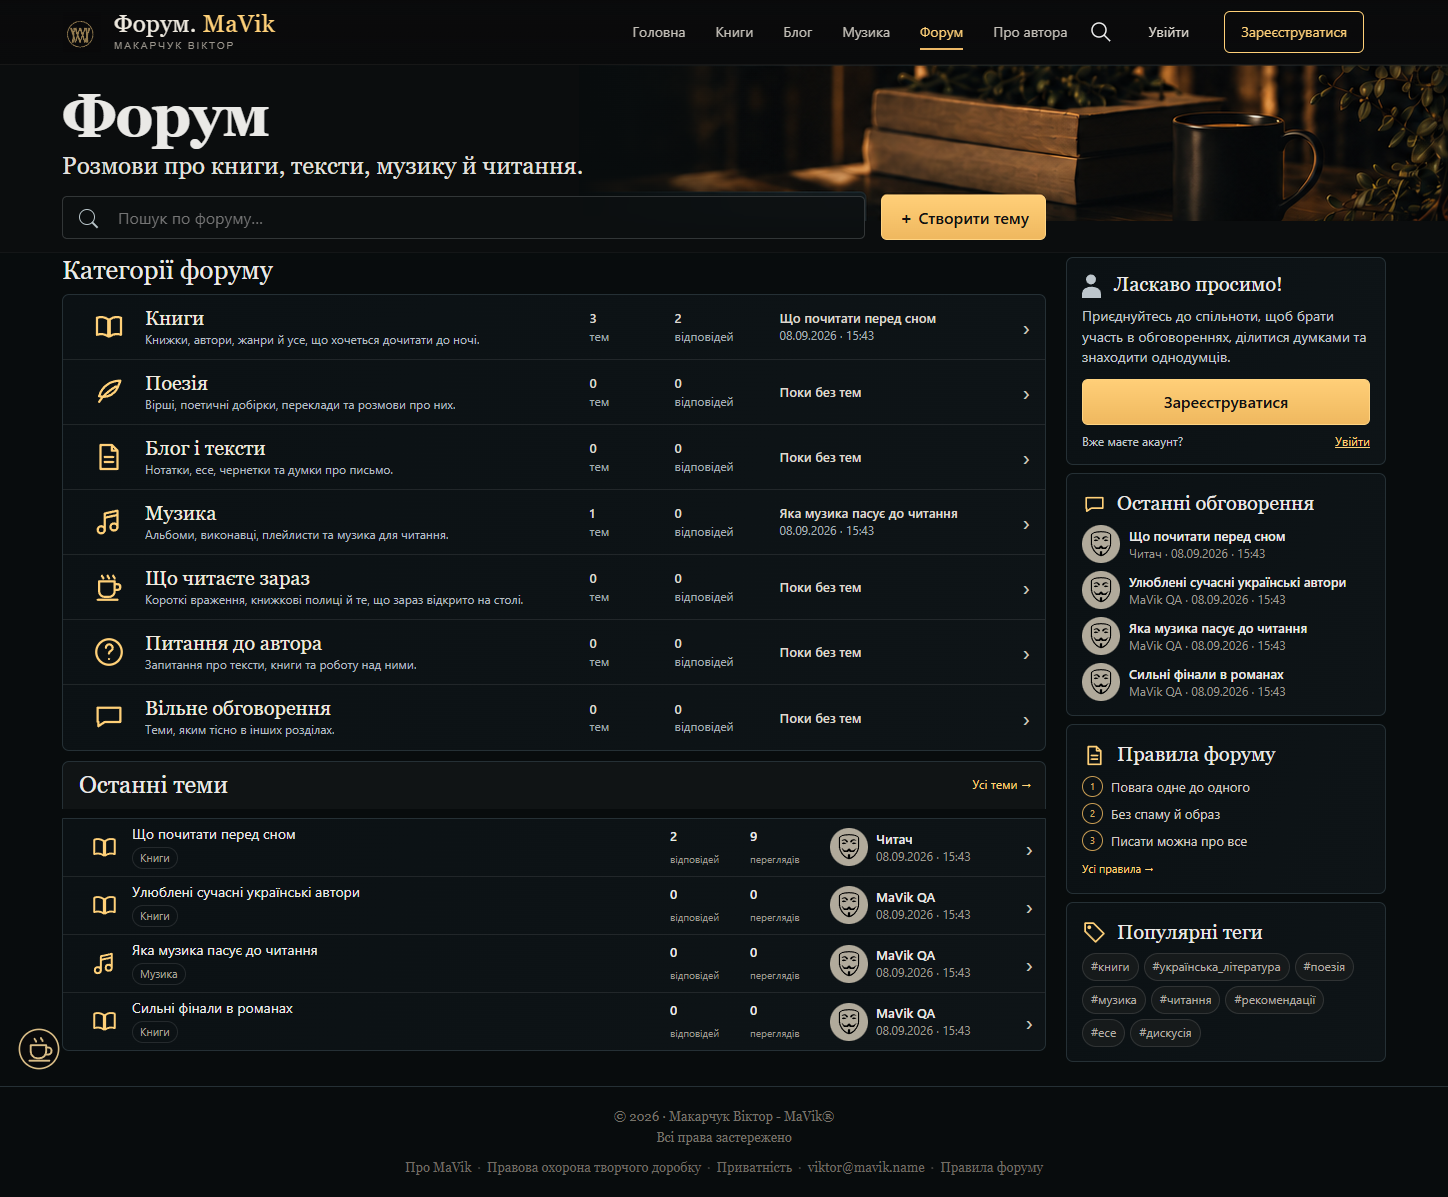
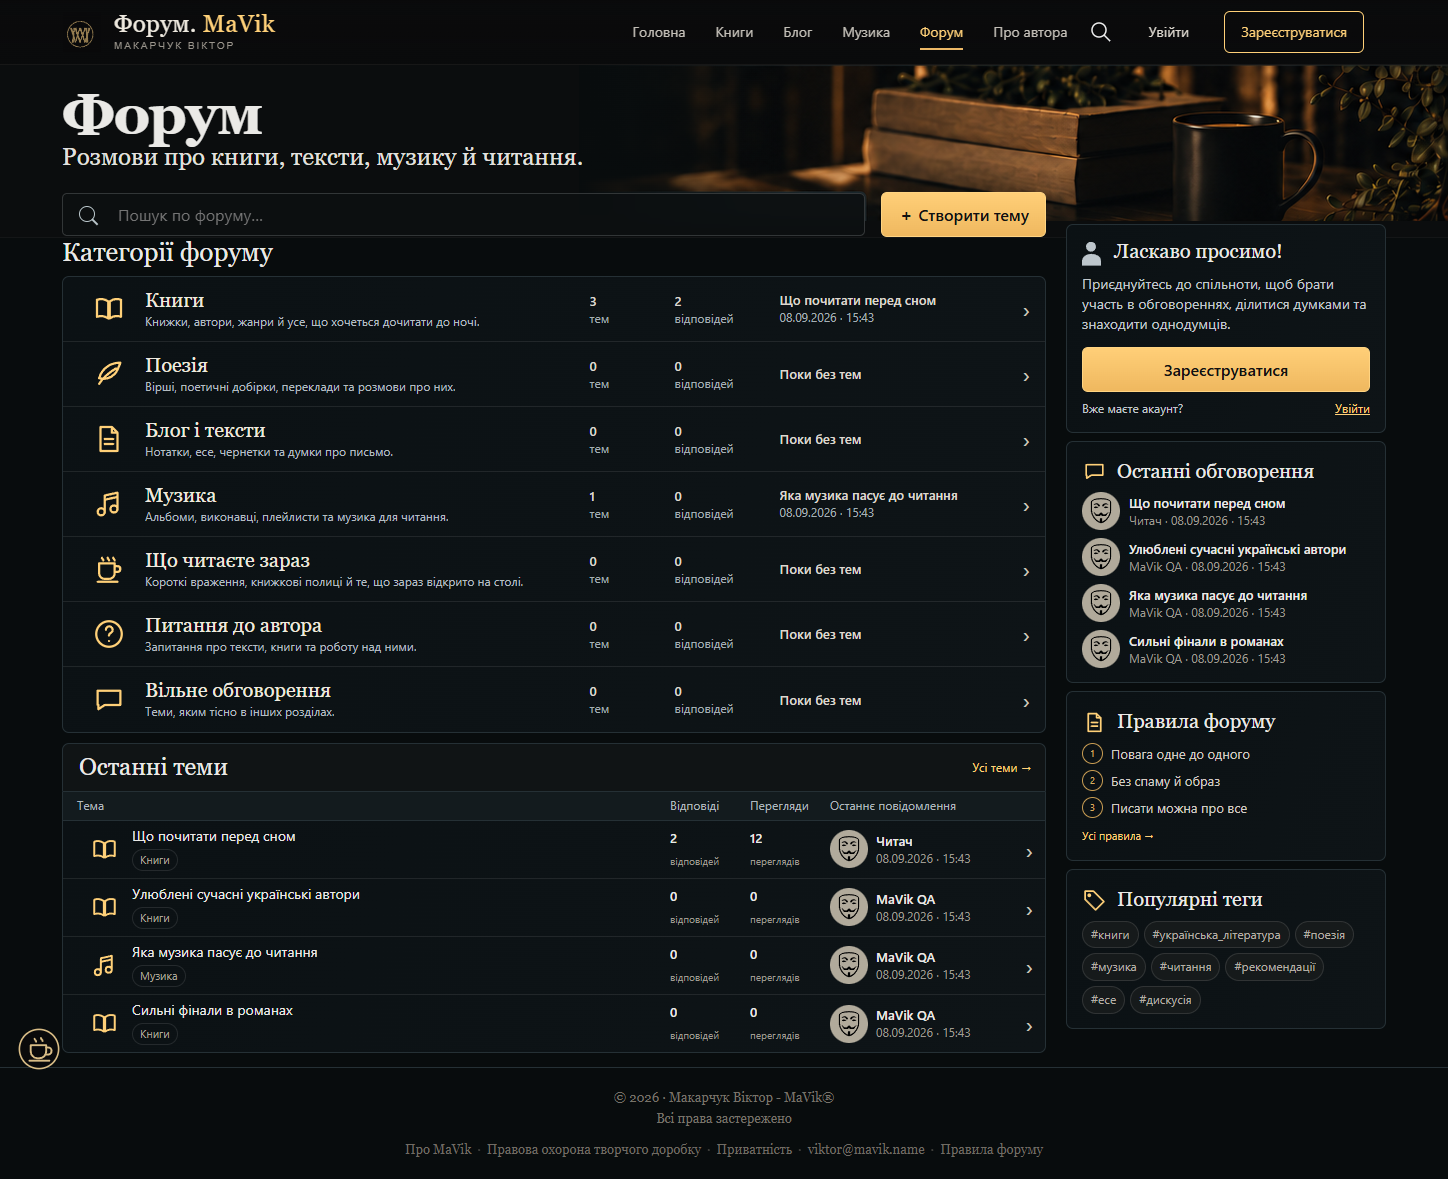
Align homepage rows and hero geometry with canonical reference and refresh test ZIP

diff --git a/mavik-sklad/files/forum/releases/0.9/build-0.9/assets/release.css b/mavik-sklad/files/forum/releases/0.9/build-0.9/assets/release.css
@@ -70,3 +70,9 @@ body{background:var(--bg);color:var(--text)}
 @media(max-width:780px){.mobile-landscape{display:block;height:19vw;max-height:145px;background-image:url('/assets/mobile-reference.png');background-size:159% auto;background-position:center bottom;background-repeat:no-repeat}.topic-page .mobile-landscape{display:none}.forum-hero{min-height:330px}.forum-hero-copy p{max-width:65%}.site-brand-mark,.site-brand-mark img{width:40px;height:40px}.topic-last{align-items:flex-start}.site-brand-copy strong{font-weight:400}}
 
 .heading-icon svg,.ui-icon{width:25px;height:25px;fill:none;stroke:var(--gold2);stroke-width:1.6;stroke-linecap:round;stroke-linejoin:round;vertical-align:middle}.primary .ui-icon{stroke:#17120c}.heading-icon{margin-right:10px}.post-meta a{font-weight:400}.welcome-panel h3:before{content:'';display:inline-block;width:19px;height:24px;background:#bdc6cc;clip-path:path('M 9 0 A 5 5 0 1 1 9 10 A 5 5 0 1 1 9 0 M 0 24 L 0 19 C 0 10 19 10 19 19 L 19 24 Z');vertical-align:middle;margin-right:13px}
+.topic-table-head{display:grid;grid-template-columns:minmax(0,1fr) 80px 80px 203px;padding:5px 12px 5px 14px;font-size:12px;color:#aeb7bd;border-bottom:1px solid var(--line);background:#131b1e;min-height:26px}.recent-head{margin-bottom:0}
+@media(min-width:1201px){.forum-hero{display:block;min-height:0;padding-top:20px;padding-bottom:0}.forum-hero-copy h1{font-size:58px;line-height:1;margin:0}.forum-hero-copy p{font-size:24px;line-height:1.2}.forum-hero-tools{margin-top:20px}.content-grid{padding-top:0;padding-bottom:4px}.content-grid>aside{margin-top:-14px}.site-footer{margin-top:10px}.forum-hero:after{display:none}}
+@media(max-width:780px){.topic-table-head{display:none}.recent-head{margin-bottom:0}.forum-hero-copy h1{font-size:clamp(40px,8vw,50px)}.forum-hero-copy p{font-size:clamp(19px,3.6vw,22px)}.panel p{font-size:14px}}
+@media(min-width:500px) and (max-width:780px){.forum-hero{min-height:302px}.forum-hero-copy p{max-width:65%}.mobile-hero-quote{font-size:16px!important}.cat-copy p{font-size:13px;max-width:330px}.cat-copy h3{font-size:20px}.topic-row{grid-template-columns:42px minmax(0,1fr) 145px 16px}.topic-last strong{font-size:13px}.topic-last span{font-size:12px}.topic-last .avatar{width:34px;height:34px}.topic-copy strong{font-size:16px}}
+
+@media(min-width:1201px){.content-grid>aside{position:relative;z-index:3}}

diff --git a/mavik-sklad/files/forum/releases/0.9/build-0.9/index.php b/mavik-sklad/files/forum/releases/0.9/build-0.9/index.php
@@ -43,6 +43,7 @@ forum_header('Форум');
 
   <div class="section-head recent-head"><h2>Останні теми</h2><a class="section-link" href="/topics.php">Усі теми →</a></div>
   <div class="topic-list">
+  <div class="topic-table-head" aria-hidden="true"><span>Тема</span><span>Відповіді</span><span>Перегляди</span><span>Останнє повідомлення</span></div>
   <?php foreach($latest as $t): ?>
     <a class="topic-row" href="/topic.php?slug=<?=urlencode($t['slug'])?>">
       <div class="topic-kind"><?=category_icon($t['category_slug'])?></div>
